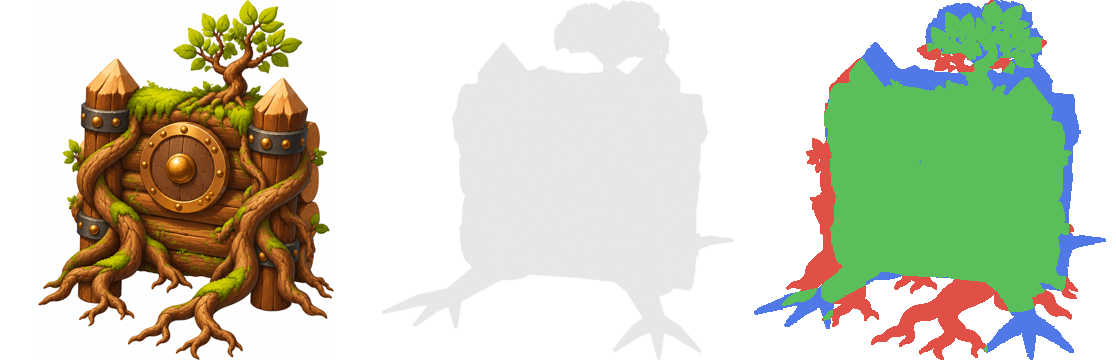
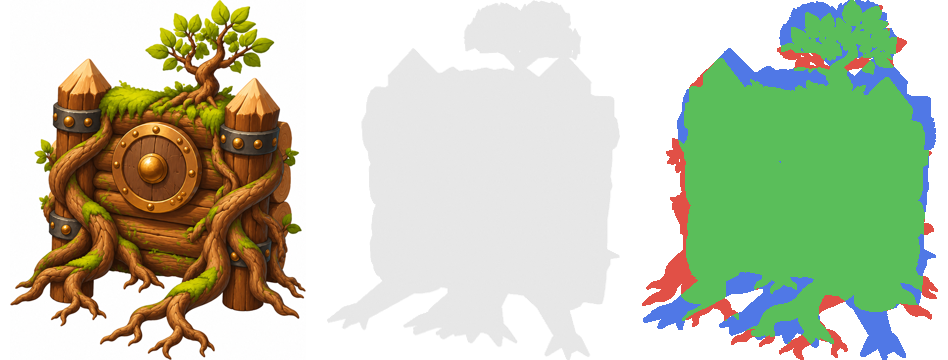
Oak Barricade Rootwall: roots pour down the front and fan out in the middle, short forks at the posts
- pour(): per face, four thick roots come over the top between the posts, run down the face and bend out toward
  the viewer at the foot, ending in one fan in the middle (fan = its width); two short forks off each end
- the roots wound round the posts end in short forks (fork_len) instead of long sideways ones
- shape loop with the post-tip rule kept

diff --git a/art/blender/tower_barricade_detail.py b/art/blender/tower_barricade_detail.py
@@ -101,7 +101,7 @@ DEFAULTS = {
     "l1": dict(BASE, log_r=0.6, logs=3, wing_logs=2, big_r=0.58, big_x=2.0, wing_r=0.44, wing_x=4.4, shield=0),
     "l2": dict(BASE),
     "thorn": dict(BASE, pairs=4, stake_len=4.6, stake_tilt=60, front=6, front_len=1.9, crest=0.8, crest_len=2.0),
-    "root": dict(BASE, reach=3.0, sapling=1.0, root_r=0.62, spread=0.4, crown=1.4),
+    "root": dict(BASE, reach=3.0, sapling=1.0, root_r=0.62, spread=0.4, crown=1.4, pour=4, fan=1.6, fork_len=1.0),
 }
 P = dict(DEFAULTS[stage])
 saved = os.path.join(HERE, "params", f"tower_barricade_{stage}.json")
@@ -441,7 +441,7 @@ if stage == "root":
         # Rootwall shape: sideways roots ran flat along the road)
         for f, ang in enumerate((-38, 0, 38)):
             a = rad(ang + 12 * lean)
-            ln = rnd.uniform(1.4, 2.1)
+            ln = rnd.uniform(0.8, 1.2) * P["fork_len"]   # (the post roots' forks: short; the fan in the middle is the big one)
             tip = fork + Vector((math.sin(a) * ln, s * math.cos(a) * ln, -0.12))
             bend = fork.lerp(tip, 0.5) + Vector((0, 0, 0.1))
             tube(f"{name}Fork{f}", [fork, bend, tip], [r0 * 0.5, r0 * 0.34, r0 * 0.08], ROOT_T, "bark", 1.6, verts=8)
@@ -474,6 +474,37 @@ if stage == "root":
         out_dy = post_y(r) + ra - R      # the ground part starts in front of the post, not back at the wall
         splay(name, pts, radii, px + 0.2 * (1 if px > 0 else -1), s, r0 * 0.85, 1 if px > 0 else -1,
               dys=((out_dy + 0.3, 0.2, 0.55), (out_dy + 0.65, 0.08, 0.35)))
+
+    def pour(name, x0, s, r0, k, n):
+        """a thick root that comes over the top between the posts, pours down the face and bends out toward the
+        viewer at the foot, where the roots of that face end in one fan in the middle (like the picture)"""
+        g = random.Random(300 + k + (0 if s > 0 else 50))
+        y_face = s * (R + r0 * 0.6)
+        pts = [(x0 * 0.9, -s * 0.1, top_c + 0.12), (x0, s * R * 0.6, top_c), (x0, y_face, top_c - 0.6)]
+        radii = [r0 * 0.75, r0 * 0.95, r0]
+        z = top_c - 0.6
+        while z > 0.9:
+            z = max(z - 0.75, 0.9)
+            pts.append((x0 * (0.5 + 0.5 * z / top_c) + g.uniform(-0.12, 0.12), y_face, z))
+            radii.append(r0 * (0.95 + 0.05 * g.random()))
+        # the foot: out toward the viewer and in toward the middle, then the fan
+        t = (k + 0.5) / n - 0.5                       # -0.5 .. 0.5 across the fan
+        foot = Vector((x0 * 0.45, s * (R + 0.9), 0.3))
+        end = Vector((t * 2 * P["fan"], s * (R + P["reach"] * 0.9), 0.06))
+        pts += [tuple(foot), tuple(foot.lerp(end, 0.55) + Vector((0, 0, 0.05))), tuple(end)]
+        radii += [r0 * 0.85, r0 * 0.55, r0 * 0.12]
+        tube(name, pts, radii, ROOT_T, "bark", 1.6, verts=12)
+        for f, side in enumerate((-1, 1)):            # two short forks off the fan's end
+            a = Vector(pts[-2])
+            tip = a + Vector((side * g.uniform(0.6, 1.0), s * g.uniform(0.4, 0.8), -0.1))
+            tube(f"{name}Fork{f}", [a, a.lerp(tip, 0.5) + Vector((0, 0, 0.05)), tip], [r0 * 0.4, r0 * 0.25, r0 * 0.06], ROOT_T,
+                 "bark", 1.6, verts=8)
+
+    for s, tag in ((1, "F"), (-1, "B")):
+        n = int(P["pour"])
+        for k in range(n):
+            x0 = ((k + 0.5) / n - 0.5) * 2 * (BX - BR - 0.35)
+            pour(f"Pour{tag}{k}", x0, s, P["root_r"] * (0.9 if k in (0, n - 1) else 1.05), k, n)
 
     wing_mid = (BX + BR + WX - WR) / 2
     for s, tag in ((1, "F"), (-1, "B")):

diff --git a/scripts/tower_fit.py b/scripts/tower_fit.py
@@ -47,7 +47,7 @@ SEARCH = {"ballista1": ["aim", "pitch", "foot_r", "leg_h", "leg_spread", "bow_w"
           "barricade_l1": ["log_r", "big_r", "big_x", "post_up", "tip", "overhang", "lift", "pair_y"],
           "barricade_l2": ["log_r", "big_r", "big_x", "post_up", "tip", "overhang", "shield"],
           "barricade_thorn": ["log_r", "big_r", "big_x", "post_up", "tip", "overhang", "shield", "stake_len", "front_len"],   # (crest_len fixed: an intended difference from the picture)
-          "barricade_root": ["log_r", "big_r", "big_x", "post_up", "tip", "overhang", "shield", "reach", "sapling", "root_r", "spread", "crown"]}
+          "barricade_root": ["log_r", "big_r", "big_x", "post_up", "tip", "overhang", "shield", "reach", "sapling", "root_r", "spread", "crown", "fan", "fork_len"]}
 RULES = {"ranger1": [lambda p: p["ridge"] > p["eave"] + 1, lambda p: p["box_half"] <= p["leg_half"] + 0.7],
          "ranger3": [lambda p: p["wall_r0"] >= p["wall_r1"] >= p["wall2_r"], lambda p: p["roof_r"] > p["look_r"],
                      lambda p: p["band_z"] < p["wall_top"] - 2, lambda p: p["post_top"] < p["roof_z0"] + 0.2],
